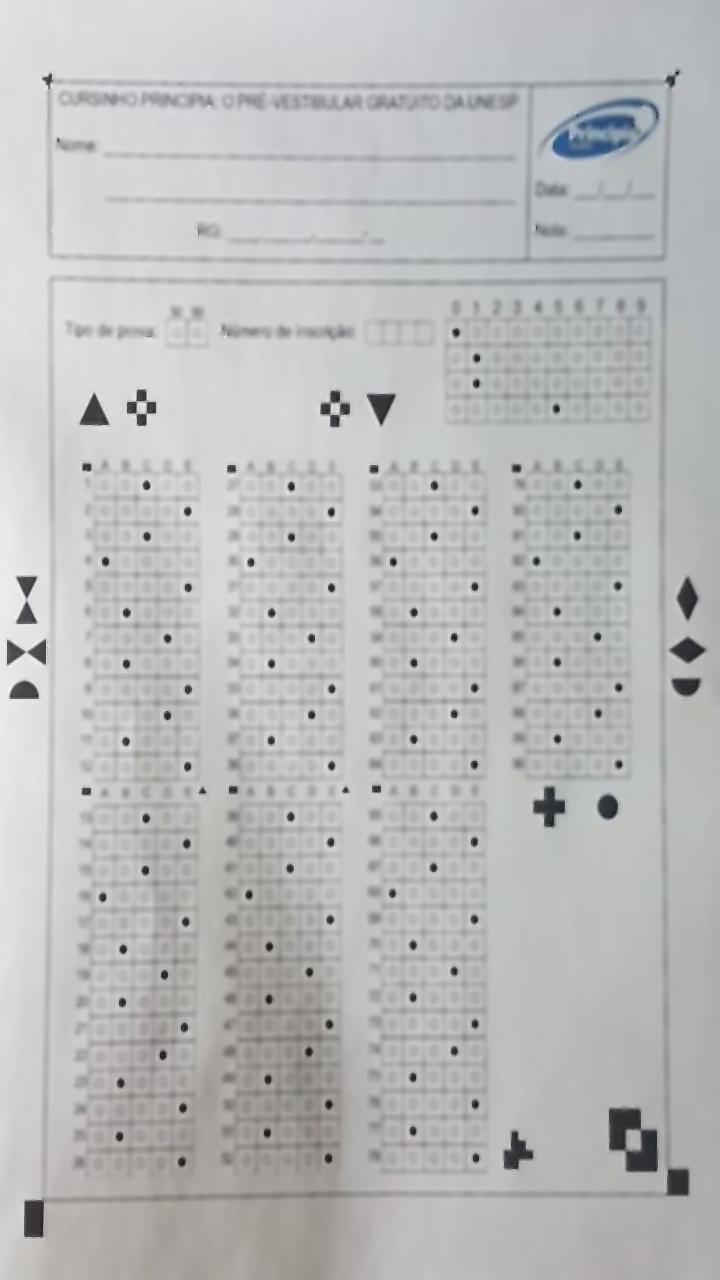
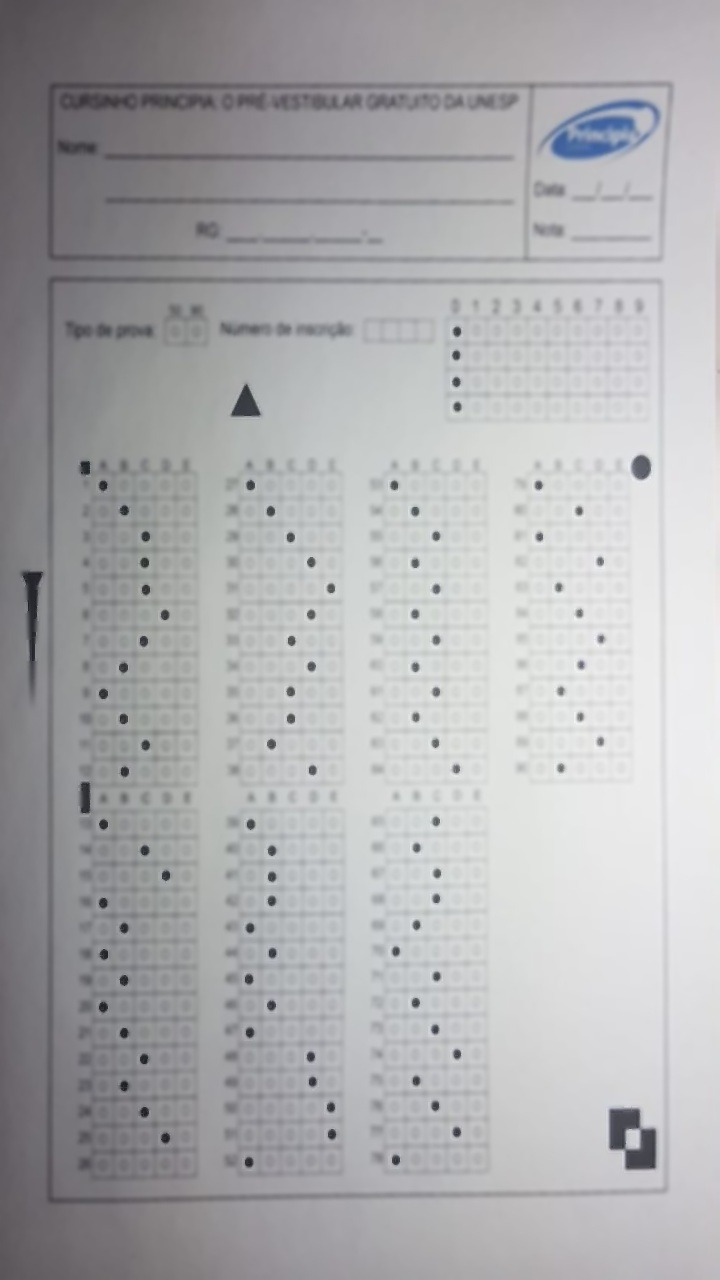
Alterado o layout

diff --git a/AnotherAlign..py b/AnotherAlign..py
@@ -1,0 +1,42 @@
+import numpy as np
+import cv2 as cv
+
+img1 = cv.imread('base.jpeg',cv.IMREAD_GRAYSCALE)          # queryImage
+img2 = cv.imread('prova2.jpeg',cv.IMREAD_GRAYSCALE) # trainImage
+# Initiate ORB detector
+orb = cv.ORB_create(5000)
+# find the keypoints and descriptors with ORB
+kp1, des1 = orb.detectAndCompute(img1,None)
+kp2, des2 = orb.detectAndCompute(img2,None)
+
+# create BFMatcher object
+bf = cv.BFMatcher(cv.NORM_HAMMING, crossCheck=True)
+# Match descriptors.
+matches = bf.match(des1,des2)
+# Sort them in the order of their distance.
+matches = sorted(matches, key = lambda x:x.distance)
+
+# Remove not so good matches
+numGoodMatches = int(len(matches) * 0.05)
+matches = matches[:numGoodMatches]
+
+# Draw top matches
+imMatches = cv.drawMatches(img1, kp1, img2, kp2, matches, None)
+cv.imwrite("NovoAlinhada.jpeg", imMatches)
+
+# Extract location of good matches
+points1 = np.zeros((len(matches), 2), dtype=np.float32)
+points2 = np.zeros((len(matches), 2), dtype=np.float32)
+
+for i, match in enumerate(matches):
+    points1[i, :] = kp1[match.queryIdx].pt
+    points2[i, :] = kp2[match.trainIdx].pt
+
+# Find homography
+h, mask = cv.findHomography(points1, points2, cv.RANSAC)
+
+# Use homography
+height, width = img1.shape
+aligned_image = cv.warpPerspective(img2, h, (width, height))
+cv.imwrite('alinhada.jpeg', aligned_image)
+

diff --git a/respostas.py b/respostas.py
@@ -74,8 +74,8 @@ class Respostas:
                                     listRA.append(str(x))
                                     cv2.putText(img, str(x), (cX - 25, cY),cv2.FONT_HERSHEY_SIMPLEX, 0.5, (0, 255, 0), 2)
 
-        print(listRet)
-        print(listNumbers)
+        #print(listRet)
+        #print(listNumbers)
         for x in range(0,len(listNumbers)-1):
             for j in range(x,len(listNumbers)):
                 if (int(listNumbers[x]) >= int(listNumbers[j])):

diff --git a/resizeaimage.py b/resizeaimage.py
@@ -1,16 +1,16 @@
 import cv2
  
-img = cv2.imread('NewGabarito.jpg', cv2.IMREAD_UNCHANGED)
+img = cv2.imread('Prova0.jpg', cv2.IMREAD_UNCHANGED)
  
 print('Original Dimensions : ',img.shape)
  
 
-width = 720
-height = 1280
+width = 1241
+height = 1754
 dim = (width, height)
 # resize image
 resized = cv2.resize(img, dim, interpolation = cv2.INTER_AREA)
  
 print('Resized Dimensions : ',resized.shape)
  
-cv2.imwrite('resized.jpeg', resized)
+cv2.imwrite('prova1.jpg', resized)

diff --git a/Image.py b/Image.py
@@ -25,6 +25,7 @@ class Image:
         keypoints2, descriptors2 = orb.detectAndCompute(im2Gray, None)
         
         # Match features.
+        #matcher = cv2.BFMatcher(cv2.NORM_L2, crossCheck=True)
         matcher = cv2.DescriptorMatcher_create(cv2.DESCRIPTOR_MATCHER_BRUTEFORCE_HAMMING)
         matches = matcher.match(descriptors1, descriptors2, None)
         

diff --git a/newmain.py b/newmain.py
@@ -7,8 +7,8 @@ from respostas import Respostas
 
 
 def main ():
-    base_gabarito_path = "base.jpeg"
-    gabarito_path = "prova2.jpeg"
+    base_gabarito_path = "base.jpg"
+    gabarito_path = "9.jpeg"
     
     img = Image(base_gabarito_path)
     gabarito_image = img.loadImage(gabarito_path)
